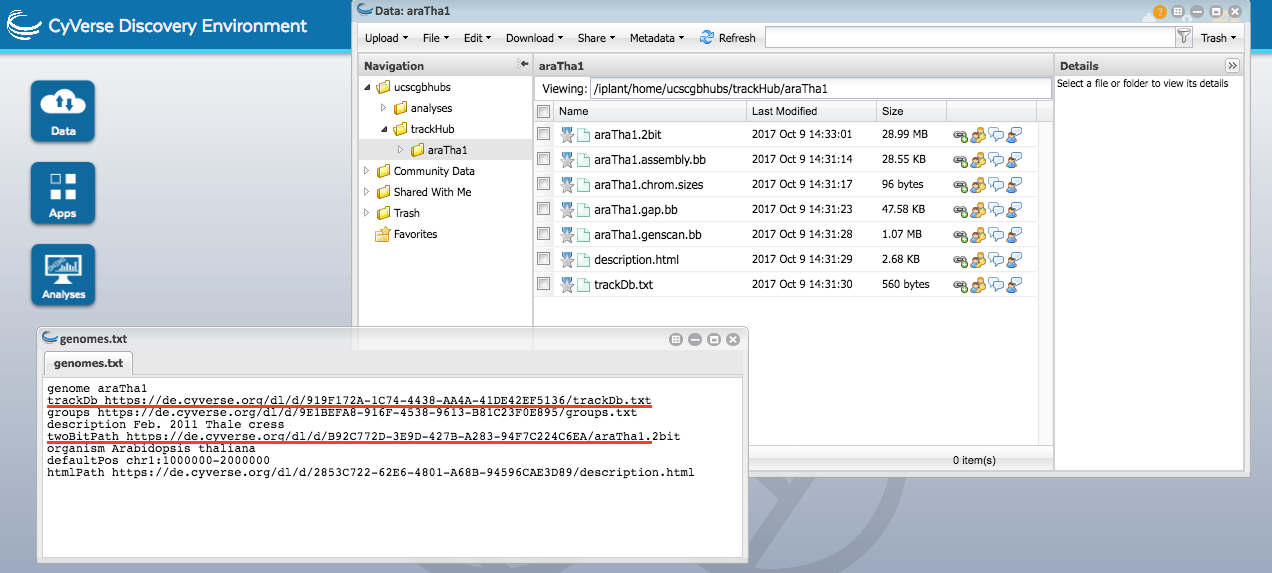
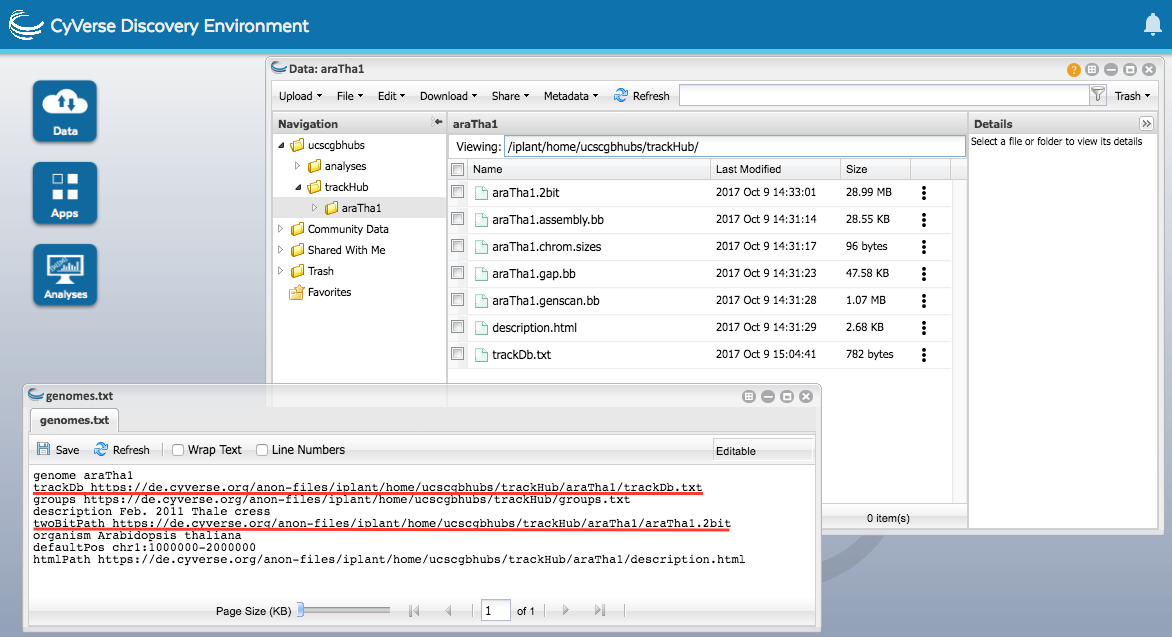
Updating hosting section after cyverse feedback, refs #12822

diff --git a/src/hg/htdocs/goldenPath/help/hgTrackHubHelp.html b/src/hg/htdocs/goldenPath/help/hgTrackHubHelp.html
@@ -833,13 +833,17 @@ individually as shown below:
   <img height="400px" src="../../images/cyverseUploadButton.png">
 </div>
 <p>
-Or use <a href="https://pods.iplantcollaborative.org/wiki/display/DS/Using+Cyberduck+for+Uploading+and+Downloading+to+the+Data+Store">
+You can also use the command line utility
+<a href="https://pods.iplantcollaborative.org/wiki/display/DS/Setting+Up+iCommands">iCommands</a> 
+to facilitate bulk transfer of data (best used for large files in the 2-100GB range), or use 
+<a href="https://pods.iplantcollaborative.org/wiki/display/DS/Using+Cyberduck+for+Uploading+and+Downloading+to+the+Data+Store">
 Cyberduck</a> to bulk transfer up to 80GB of data in one go.</p>
 
 <p>
 After uploading some data, check the &quot;Info-Type&quot; of your BAM, bigWig, bigBed, etc. files.
 If an Info-Type has not been selected automatically or if it is incorrect, make sure it 
-is correct. If uploading an assembly hub, assign the Info-Type &quot;bed&quot; to the 2bit file.
+is correct. If uploading an assembly hub, assign the Info-Type &quot;bed&quot; to the 2bit file, as
+well as any text files, like your trackDb.txt, groups.txt, or description.html.
 </p>
 
 <p>
@@ -848,24 +852,19 @@ text files to point to CyVerse locations. For example, your <em>hub.txt</em> wil
 like:
 <pre><code>genomesFile genomes.txt</code></pre>
 <p>Which must be edited to point to a CyVerse URL such as:</p>
-<pre><code>genomesFile https://de.cyverse.org/dl/....</code></pre>
+<pre><code>genomesFile https://de.cyverse.org/anon-files/iplant/home/...</code></pre>
 <p>Luckily, CyVerse allows you to edit these text files after uploading them, so you can create a 
-public link:</p>
+&quot;Send To: Genome Browser&quot; link:</p>
 <div class="text-center">
-  <img height="400px" src="../../images/cyverseCreatePublicLink.png">
+  <img height="400px" src="../../images/cyverseSendToGenomeBrowser.png">
 </div>
 <p>And then edit the fields of your <em>hub.txt</em>, <em>genomes.txt</em>, and <em>trackDb.txt</em> 
 files like so:</p>
 <div class="text-center">
-  <img height="400px" src="../../images/cyverseEditedPaths.png">
+  <img height="500px" width="1000px" src="../../images/cyverseEditedPaths.png">
 </div>
-<p>To get the correct links to bigData files, use the &quot;Send To: Genome Browser&quot; links in the
-menu:</p>
-<div class="text-center">
-  <img height="400px" src="../../images/cyverseSendToGenomeBrowser.png">
-</div>
-<p>Which will result in a URL you can copy and paste into your <em>trackDb.txt</em>, similar to creating
-a public link.
+<p>To get the correct links to bigData files, again be sure to use the &quot;Send To: Genome 
+Browser&quot; links in the menu.
 </p>
 
 <p>
